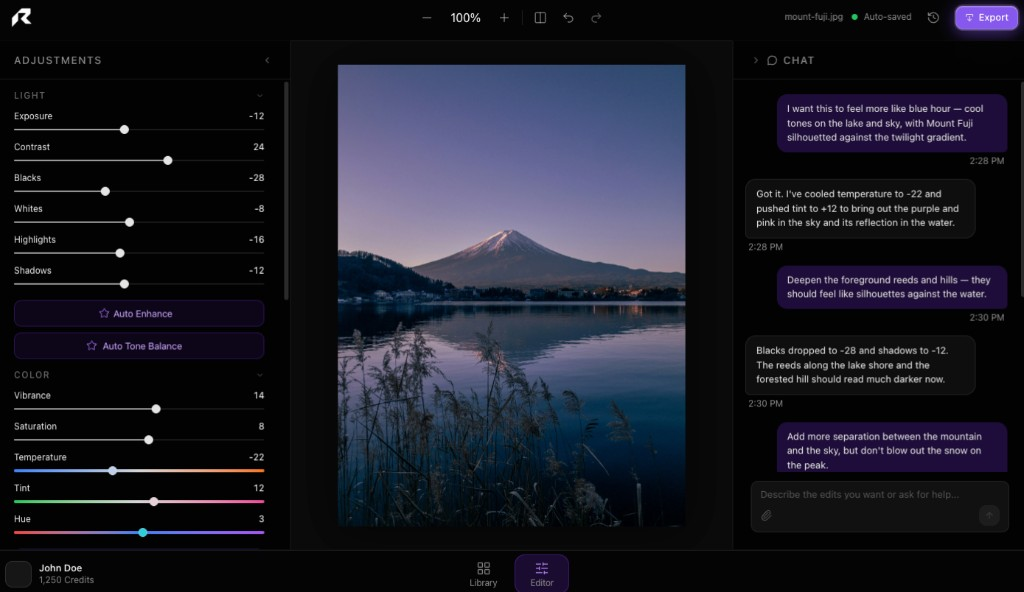
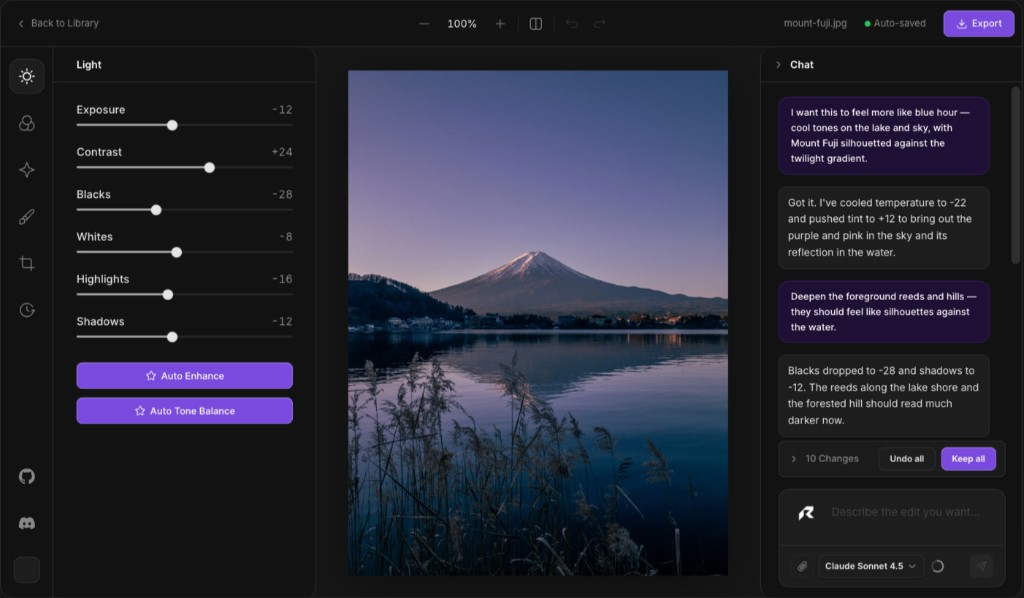
feat: update social preview image and OG dimensions

diff --git a/src/app/layout.tsx b/src/app/layout.tsx
@@ -22,7 +22,7 @@ export const metadata: Metadata = {
       "Organize, edit, and deliver photos in seconds, all from your browser",
     url: "https://redux.so",
     siteName: "Redux",
-    images: [{ url: "/og-image.png", width: 1200, height: 630 }],
+    images: [{ url: "/og-image.png", width: 1024, height: 598 }],
   },
   twitter: {
     card: "summary_large_image",
